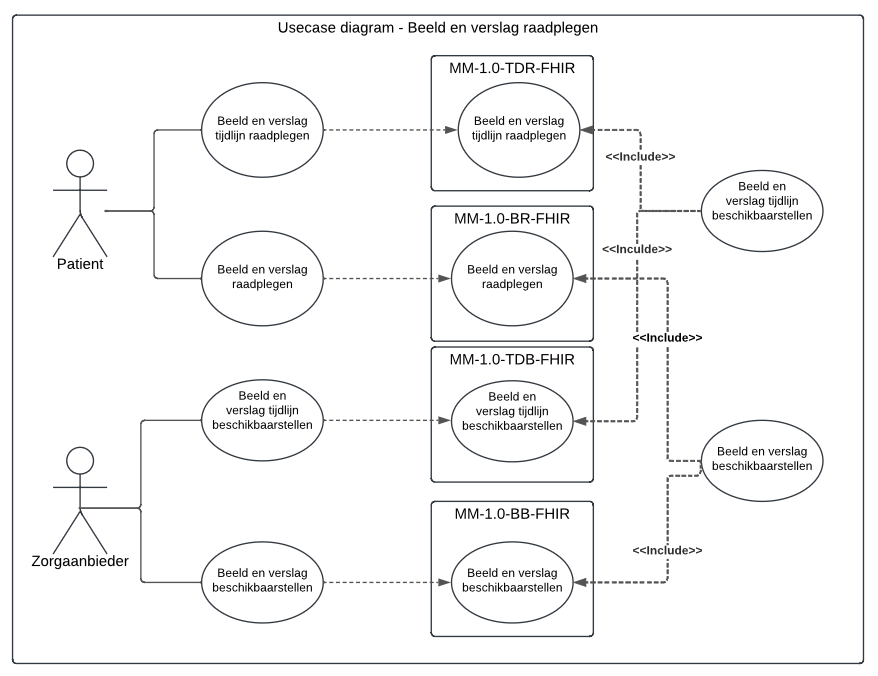
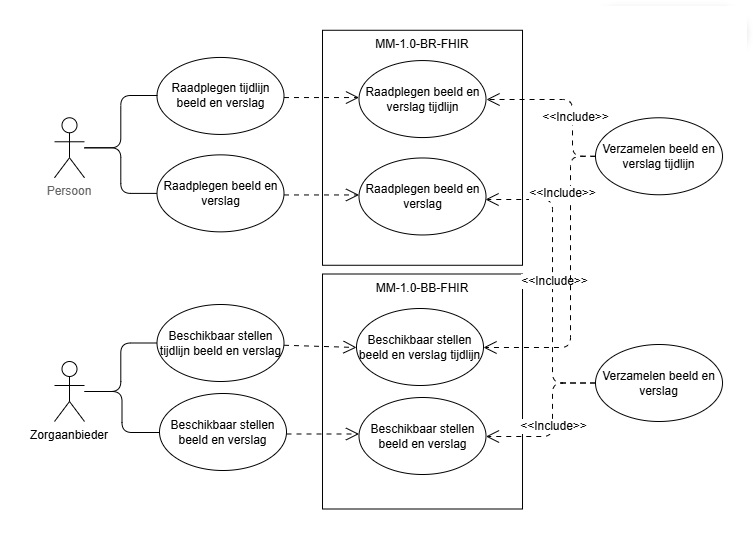
DOSINZAGE2-676-682: Removed redundant system roles and use cases, tweaked diagrams

diff --git a/guides/medmij-r4-image-availability-ig/Home/Functional-Design/Functional-design.page.md b/guides/medmij-r4-image-availability-ig/Home/Functional-Design/Functional-design.page.md
@@ -36,7 +36,7 @@ Op dit moment wordt de usecase uit dit ontwerp getoetst in een Proof of Concept 
 ## Usecases
 
 ### Algemeen
-Een usecase is een gedetailleerde beschrijving van een praktijksituatie in de zorg, waarin het uitwisselen van informatie wordt uitgewerkt aan de hand van actoren en transacties. Hierbij wordt vastgelegd welke informatie op welk moment wordt gedeeld. Een usecase beschrijft een stap in het zorgproces en de bijbehorende informatiebehoefte. Een informatiestandaard kan meerdere usecases bevatten, die gekoppeld zijn aan scenario's. Wanneer meerdere usecases hetzelfde scenario gebruiken, kan een alternatieve indeling op basis van het proces nuttig zijn. In dit ontwerp wordt het ophalen van beelden en verslagen door een patiënt vanuit een zorgverlener als één activiteit beschouwd, maar uitgewerkt in drie sub-usecases.
+Een usecase is een gedetailleerde beschrijving van een praktijksituatie in de zorg, waarin het uitwisselen van informatie wordt uitgewerkt aan de hand van actoren en transacties. Hierbij wordt vastgelegd welke informatie op welk moment wordt gedeeld. Een usecase beschrijft een stap in het zorgproces en de bijbehorende informatiebehoefte. Een informatiestandaard kan meerdere usecases bevatten, die gekoppeld zijn aan scenario's. Wanneer meerdere usecases hetzelfde scenario gebruiken, kan een alternatieve indeling op basis van het proces nuttig zijn. In dit ontwerp wordt het ophalen van beelden en verslagen door een patiënt vanuit een zorgverlener als één activiteit beschouwd.
 
 ### Usecase: Raadplegen beeld en verslag in persoonlijke gezondheidsomgeving
 
@@ -62,67 +62,19 @@ Roos Dalstra heeft pijn op de borst en besluit naar de huisartsenpost te gaan. H
 ##### Postproces
 - De patiënt ziet het opgevraagde beeld en/of verslag in zijn of haar PGO.
 
-### Usecase: Raadplegen beeld zonder verslag in persoonlijke gezondheidsomgeving
-
-#### Doel en relevantie raadplegen beeld zonder verslag
-Het doel is om patiënten toegang te geven tot medische beelden, zodat zij een beter inzicht krijgen in hun eigen medische situatie. Dit draagt bij aan een beter begrip van hun gezondheid en de behandelingen die zij ondergaan. Voor zorgverleners betekent dit dat patiënten beter geïnformeerd zijn over eerdere onderzoeken, wat kan bijdragen aan efficiëntere consulten en een beter afgestemd zorgproces.
-  
-##### Patient journey raadplegen beeld zonder verslag
-Roos Dalstra merkt dat haar gewicht de afgelopen dagen is toegenomen. Omdat vochtophoping een bekend verschijnsel is bij haar hartfalen, neemt ze contact op met haar huisarts. De huisarts verwijst haar door naar de radiologie voor een thoraxfoto. Na het maken van de thoraxfoto bekijkt Roos de radiologische beelden in haar PGO. Omdat er geen verslag beschikbaar is, wacht ze op de terugkoppeling van haar huisarts voor verdere duiding en bespreking van de volgende stappen.
-
-#### Procesbeschrijving raadplegen beeld zonder verslag
-
-##### Preproces
-- De patiënt heeft toestemming gegeven voor het elektronisch uitwisselen van medische gegevens tussen de zorgverlener en de eigen persoonlijke gezondheidsomgeving.
-- Het beeld is geregistreerd en beschikbaar voor systemen die tijdlijngegevens kunnen opvragen.
- 
-##### Proces
-- De patiënt raadpleegt de beelden en verslagen in zijn of haar PGO.
-- Het systeem van de patiënt (PGO) vraagt om beschikbare medische gegevens bij de zorgaanbieder.
-- Het systeem van de zorgaanbieder (XIS) levert een lijst met metadata over de gevonden beelden en verslagen op voor de patiënt.
-- De patiënt gebruikt de persoonlijke gezondheidsomgeving om het gewenste beeld te raadplegen of te downloaden.
-- Het systeem van de zorgaanbieder (XIS) levert het gevraagde beeld op voor de patiënt.
-
-##### Postproces
-- De patiënt ziet het opgevraagde beeld in zijn of haar PGO.
-
-### Usecase: Raadplegen verslag zonder beeld in persoonlijke gezondheidsomgeving
-
-#### Doel en relevantie raadplegen verslag zonder beeld
-De patiënt raadpleegt relevante verslagen om een vollediger inzicht te krijgen in de medische situatie, wat zonder deze informatie niet mogelijk zou zijn. Dit is belangrijk voor het nemen van weloverwogen beslissingen over het eigen zorgproces. Het inzien van eerdere onderzoeken, zoals beelden en verslagen, naast de meest recente resultaten, is van grote waarde in elk zorgtraject waarin beeldvorming een rol speelt.
-
-##### Patient journey raadplegen verslag zonder beeld
-Roos Dalstra merkt dat haar gewicht de afgelopen dagen is toegenomen. Omdat vochtophoping een bekend verschijnsel is bij haar hartfalen, neemt ze contact op met haar huisarts. De huisarts verwijst haar door naar de radiologie voor een thoraxfoto. Na het maken van de thoraxfoto raadpleegt Roos het bijbehorende verslag in haar PGO. Omdat de beelden niet beschikbaar zijn, baseert ze zich op de beschreven bevindingen. Voor verdere duiding en bespreking van de volgende stappen wacht ze op de terugkoppeling van haar huisarts.
-
-#### Procesbeschrijving raadplegen verslag zonder beeld
-
-##### Preproces
-- De patiënt heeft toestemming gegeven voor het elektronisch uitwisselen van medische gegevens tussen de zorgverlener en de eigen persoonlijke gezondheidsomgeving.
-- Het verslag is geregistreerd en beschikbaar voor systemen die tijdlijngegevens kunnen opvragen.
-
-##### Proces
-- De patiënt raadpleegt de beelden en verslagen in zijn of haar PGO.
-- Het systeem van de patiënt (PGO) vraagt om beschikbare medische gegevens bij de zorgaanbieder.
-- Het systeem van de zorgaanbieder (XIS) levert een lijst met metadata over de gevonden beelden en verslagen op voor de patiënt.
-- De patiënt gebruikt de persoonlijke gezondheidsomgeving om het gewenste verslag te raadplegen of te downloaden.
-- Het systeem van de zorgaanbieder (XIS) levert het gevraagde verslag op voor de patiënt.
-
-##### Postproces
-- De patiënt ziet het geraadpleegde verslag in zijn of haar PGO.
-
 ### Bedrijfsrollen en UML activity diagram
 Deze usecase onderscheidt twee bedrijfsrollen, namelijk de Persoon en de (Zorg)Aanbieder, zoals te zien in onderstaande tabel.
 
-| Bedrijfsrol (actor) | Beschrijving bedrijfsrol |
-| --- | --- |
-| Patiënt/persoon | Gebruiker van de PGO |
-| Zorgaanbieder | Gebruiker van het XIS |
+| Bedrijfsrol (actor) | Beschrijving | Activiteit |
+| --- | --- | --- |
+| Patiënt/persoon | Gebruiker van de PGO | Wil medische beelden en verslagen raadplegen |
+| Zorgaanbieder | Gebruiker van het XIS | Stelt medische beelden en verslagen beschikbaar |
 
 **Tabel 1: Bedrijfsrollen**
 
-{{render: guides/medmij-r4-image-availability-ig/images/Raadplegen Beeld in PGO.png}}
+{{render: guides/medmij-r4-image-availability-ig/images/Activiteitendiagram.jpg}}
 
-**Figuur 1: Raadplegen in PGO**
+**Figuur 1: Activiteitendiagram**
 
 ### Informatieoverdracht
 Zowel de persoon als de zorgaanbieder maken ieder gebruik van een informatiesysteem:
@@ -135,31 +87,35 @@ Deze systemen kennen ieder verschillende systeemrollen, die het uitwisselen van 
 
 | Systeem | Naam systeemrol | Systeemrolcode | Omschrijving |
 | --- | --- | --- | --- |
-| PGO | BeeldVerslagMetadataLijstRaadplegen | MM-1.0-TDR-FHIR | Raadplegen beeld en verslag metadatalijst bij zorgaanbieder |
-| XIS | BeeldVerslagMetadataLijstBeschikbaarstellen | MM-1.0-TDB-FHIR | Beschikbaar stellen beeld en verslag metadatalijst bij patiënt |
 | PGO | BeeldVerslagRaadplegen | MM-1.0-BR-FHIR |  Raadplegen beeld en verslag bij zorgaanbieder |
-| XIS | BeeldVerslagBeschikbaarstellen | MM-1.0-BB-FHIR | Beschikbaar stellen beeld en verslag bij patiënt |
+| XIS | BeeldVerslagBeschikbaarStellen | MM-1.0-BB-FHIR | Beschikbaar stellen beeld en verslag bij patiënt |
 
 **Tabel 2: Systeemrollen**
+
+Hieronder zijn de systemen en systeemrollen schematisch weergegeven.
+
+{{render: guides/medmij-r4-image-availability-ig/images/Componentendiagram.png}}
+
+**Figuur 2: Componenentendiagram**
 
 ### Transacties en transactiegroepen
 Het uitwisselen van gegevens tussen de verschillende systeemrollen gebeurt op basis van transacties. Een verzameling van transacties (bijvoorbeeld een vraag- en antwoordbericht) vormt een zogeheten transactiegroep. Voor de transacties die tussen de systeemrollen plaatsvinden, wordt in ART-DECOR de berichtspecificatie beschreven. Hier is bij de scenario’s beschreven uit welke gegevenselementen een transactie bestaat en wat de kardinaliteit van deze elementen is. Voor de technische specificaties en implementation guide, zie de {{pagelink:TO, text:FHIR IG}}.
 
-**Noot:** De specificaties voor de transacties in dit ontwerp staan op dit moment nog niet in ART-DECOR. Bij een toekomstige samenvoeging met de informatiestandaard van Nictiz zullen deze worden opgenomen.
+**Noot:** De specificaties voor de transacties in dit ontwerp staan op dit moment in de dataset maar nog niet in ART-DECOR. Bij een toekomstige samenvoeging met de informatiestandaard van Nictiz zullen deze worden opgenomen.
 
 | Transactiegroep | Transactie | Systeemrolcode | Systeem | Bedrijfsrol |
 | --- | --- | --- | --- | --- |
-| Verzamelen Beeld en verslag tijdlijn (PULL) | Raadplegen beeld en verslag tijdlijn | MM-1.0-TDR-FHIR | PGO | Patiënt |
-| Verzamelen Beeld en verslag tijdlijn (PULL) | Beschikbaar stellen beeld en verslag tijdlijn | MM-1.0-TDB-FHIR | XIS | Zorgaanbieder |
+| Verzamelen Beeld en verslag tijdlijn (PULL) | Raadplegen beeld en verslag tijdlijn | MM-1.0-BR-FHIR | PGO | Patiënt |
+| Verzamelen Beeld en verslag tijdlijn (PULL) | Beschikbaar stellen beeld en verslag tijdlijn | MM-1.0-BB-FHIR | XIS | Zorgaanbieder |
 | Verzamelen Beeld en verslag (PULL) | Raadplegen beeld en verslag | MM-1.0-BR-FHIR | PGO | Patiënt |
 | Verzamelen Beeld en verslag (PULL) | Beschikbaar stellen beeld en verslag | MM-1.0-BB-FHIR | XIS | Zorgaanbieder |
 
 **Tabel 3: Transactiegroepen**
 
 ### Usecasediagram
-{{render: guides/medmij-r4-image-availability-ig/images/UML Usecasediagram Beeld in PGO.png}}
+{{render: guides/medmij-r4-image-availability-ig/images/Usecasediagram.png}}
 
-**Figuur 2: Usecasediagram**
+**Figuur 3: Usecasediagram**
 
 ### Dataset
 De dataset kan gevonden worden op [GitHub](https://github.com/Stichting-MedMij/MedMij-R4-ImageAvailability/blob/main/dataset/Dataset_MedMij_Beeldbeschikbaarheid_1.0.0-beta.1.xlsx).

diff --git a/guides/medmij-r4-image-availability-ig/Home/Release-notes.page.md b/guides/medmij-r4-image-availability-ig/Home/Release-notes.page.md
@@ -10,6 +10,8 @@
 | Dataset               | The concept Initials has been added for the Patient, Requester and Performer concepts. | [DOSINZAGE2-681](https://medmij.atlassian.net/browse/DOSINZAGE2-681) |
 | Functional design     | The display guideline has been finetuned. | [DOSINZAGE2-683](https://medmij.atlassian.net/browse/DOSINZAGE2-683) |
 | Functional design     | Several requirements have been finetuned. | [DOSINZAGE2-684](https://medmij.atlassian.net/browse/DOSINZAGE2-684) |
+| Functional design     | The separate system roles for retrieving and serving the timeline have been removed. The underlying transactions have been linked to the system roles for retrieving and serving the images and reports, respectively. | [DOSINZAGE2-676](https://medmij.atlassian.net/browse/DOSINZAGE2-676) |
+| Functional design     | <ul> <li>The diagrams in the functional design have been finetuned. <li>The separate use cases for retrieving only an image or a report have been removed.</ul> | [DOSINZAGE2-682](https://medmij.atlassian.net/browse/DOSINZAGE2-682) |
 | Technical design      | The requirement to only exchange approved documents (i.e. DocumentReferences with `.status` equal to *current*) has been added. | [DOSINZAGE2-698](https://medmij.atlassian.net/browse/DOSINZAGE2-698) |
 | Technical design      | Guidance on DICOM UIDs has been added. | [DOSINZAGE2-686](https://medmij.atlassian.net/browse/DOSINZAGE2-686) |
 | Technical design      | The minimal set of SOP classes that need to be supported by PHRs has been added. | [DOSINZAGE2-653](https://medmij.atlassian.net/browse/DOSINZAGE2-653) |
